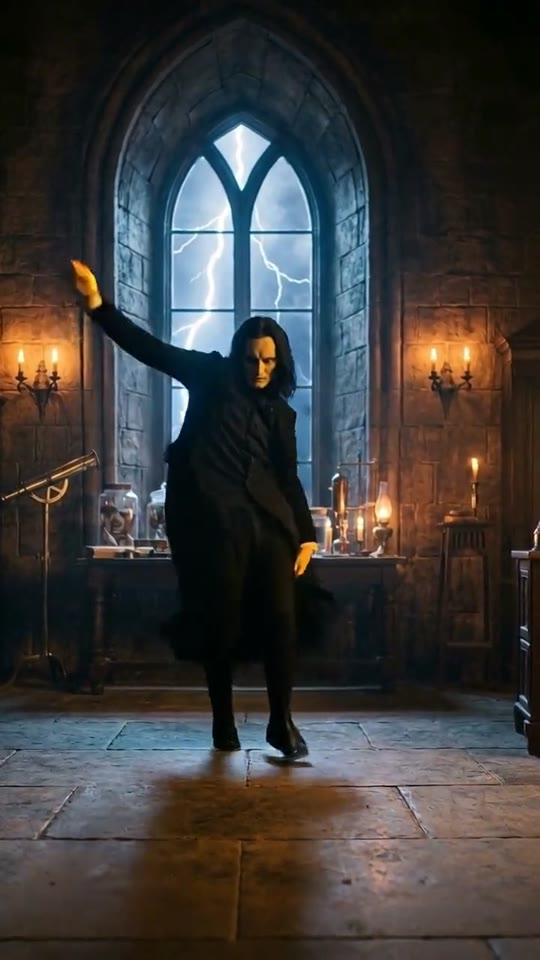
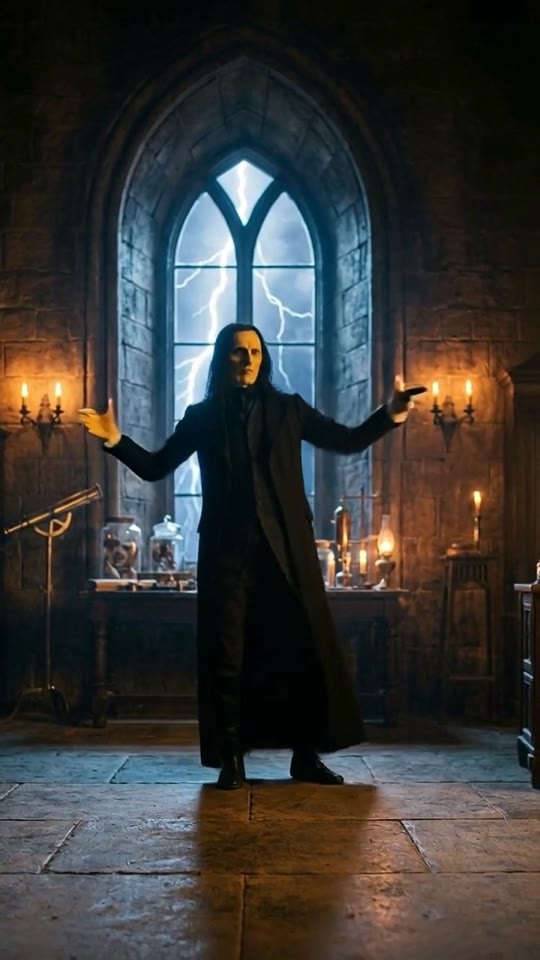
Tidy the videos section after review
Add an Apps heading above the app cards, order the videos werewolf,
Dracula, Frankenstein 3D, AI creature, Old Port, sea rises, espresso,
E61 so look-alike posters are not neighbours, and use a clearer
arms-wide frame for the AI creature poster. Credit the Frankenstein 3D
dance as "Dance by". Reword the E61 description on the Videos page and
add the PNG icon link there. Top-align the shelf and video grid so
cards do not stretch to the tallest caption.

diff --git a/videos/index.html b/videos/index.html
@@ -17,6 +17,7 @@
   <link rel="stylesheet" href="https://fonts.googleapis.com/css2?family=Sora:wght@500;600&family=Inter+Tight:wght@400;500&family=JetBrains+Mono&display=swap">
   <script>if("IntersectionObserver"in window)document.documentElement.classList.add("js")</script>
   <link rel="stylesheet" href="../style.css?v=20261016">
+  <link rel="icon" type="image/png" sizes="192x192" href="../icon.png">
   <link rel="icon" type="image/svg+xml" href="../favicon.svg">
   <script src="../motion.js" defer></script>
   <script src="../videos.js" defer></script>
@@ -72,15 +73,6 @@
             <p class="credit">Dance by @cheba_man (TikTok)</p>
           </figcaption>
         </figure>
-        <figure class="video-card" id="v-frankenstein-3d">
-          <video controls playsinline preload="none" poster="media/frankenstein-3d.jpg" width="720" height="1280" aria-label="Frankenstein's creature hits the dance floor"><source src="media/frankenstein-3d.mp4" type="video/mp4"></video>
-          <figcaption>
-            <h2>Frankenstein's creature hits the dance floor</h2>
-            <p class="desc">A 3D creature built with code, moving with the tracked dance.</p>
-            <p class="tags"><span class="tag">Made with AI</span><span class="tag">Music made with Suno AI</span></p>
-            <p class="credit">Book version, 1818. Dance moves: @cheba_man (TikTok)</p>
-          </figcaption>
-        </figure>
         <figure class="video-card" id="v-dracula">
           <video controls playsinline preload="none" poster="media/dracula.jpg" width="720" height="1280" aria-label="Dracula learned the dance"><source src="media/dracula.mp4" type="video/mp4"></video>
           <figcaption>
@@ -88,6 +80,15 @@
             <p class="desc">An AI video: the dance from a real dancer's clip, the monster made with AI.</p>
             <p class="tags"><span class="tag">Made with AI</span></p>
             <p class="credit">Dance by @cheba_man (TikTok)</p>
+          </figcaption>
+        </figure>
+        <figure class="video-card" id="v-frankenstein-3d">
+          <video controls playsinline preload="none" poster="media/frankenstein-3d.jpg" width="720" height="1280" aria-label="Frankenstein's creature hits the dance floor"><source src="media/frankenstein-3d.mp4" type="video/mp4"></video>
+          <figcaption>
+            <h2>Frankenstein's creature hits the dance floor</h2>
+            <p class="desc">A 3D creature built with code, moving with the tracked dance.</p>
+            <p class="tags"><span class="tag">Made with AI</span><span class="tag">Music made with Suno AI</span></p>
+            <p class="credit">Book version, 1818. Dance by @cheba_man (TikTok)</p>
           </figcaption>
         </figure>
         <figure class="video-card" id="v-creature-ai">
@@ -128,7 +129,7 @@
           <video controls playsinline preload="none" poster="media/inside-e61.jpg" width="720" height="1280" aria-label="Inside an E61 espresso machine, part by part"><source src="media/inside-e61.mp4" type="video/mp4"></video>
           <figcaption>
             <h2>Inside an E61 espresso machine, part by part</h2>
-            <p class="desc">The same machine as a 3D web scene, part by part.</p>
+            <p class="desc">The same machine, built as a 3D web scene.</p>
             <p class="tags"><span class="tag">Made with AI</span><span class="tag">Music made with Suno AI</span></p>
           </figcaption>
         </figure>

diff --git a/index.html b/index.html
@@ -67,20 +67,20 @@
             <p class="credit">Dance by @cheba_man (TikTok)</p>
           </figcaption>
         </figure>
-        <figure class="video-card" id="v-frankenstein-3d">
-          <video controls playsinline preload="none" poster="videos/media/frankenstein-3d.jpg" width="720" height="1280" aria-label="Frankenstein's creature hits the dance floor"><source src="videos/media/frankenstein-3d.mp4" type="video/mp4"></video>
-          <figcaption>
-            <h3>Frankenstein's creature hits the dance floor</h3>
-            <p class="tags"><span class="tag">Made with AI</span><span class="tag">Music made with Suno AI</span></p>
-            <p class="credit">Book version, 1818. Dance moves: @cheba_man (TikTok)</p>
-          </figcaption>
-        </figure>
         <figure class="video-card" id="v-dracula">
           <video controls playsinline preload="none" poster="videos/media/dracula.jpg" width="720" height="1280" aria-label="Dracula learned the dance"><source src="videos/media/dracula.mp4" type="video/mp4"></video>
           <figcaption>
             <h3>Dracula learned the dance</h3>
             <p class="tags"><span class="tag">Made with AI</span></p>
             <p class="credit">Dance by @cheba_man (TikTok)</p>
+          </figcaption>
+        </figure>
+        <figure class="video-card" id="v-frankenstein-3d">
+          <video controls playsinline preload="none" poster="videos/media/frankenstein-3d.jpg" width="720" height="1280" aria-label="Frankenstein's creature hits the dance floor"><source src="videos/media/frankenstein-3d.mp4" type="video/mp4"></video>
+          <figcaption>
+            <h3>Frankenstein's creature hits the dance floor</h3>
+            <p class="tags"><span class="tag">Made with AI</span><span class="tag">Music made with Suno AI</span></p>
+            <p class="credit">Book version, 1818. Dance by @cheba_man (TikTok)</p>
           </figcaption>
         </figure>
         <figure class="video-card" id="v-creature-ai">
@@ -127,6 +127,7 @@
     </section>
 
     <section class="apps" id="apps">
+      <h2 class="section-label">Apps</h2>
       <article id="digit-span" class="app-card">
         <div class="shot">
           <img src="cards/digit-span-1024.webp" srcset="cards/digit-span-600.webp 600w, cards/digit-span-1024.webp 1024w"

diff --git a/style.css b/style.css
@@ -75,6 +75,8 @@ main {
   .apps { grid-template-columns: repeat(2, minmax(0, 1fr)); gap: 1.75rem; }
 }
 
+.apps > .section-label { grid-column: 1 / -1; }
+
 .app-card {
   display: flex;
   gap: 1.25rem;
@@ -412,6 +414,7 @@ a:focus-visible {
 .video-grid {
   display: grid;
   gap: 1rem;
+  align-items: start;
 }
 
 /* Phone and tablet: one row that scrolls sideways and bleeds to the screen edge. */
